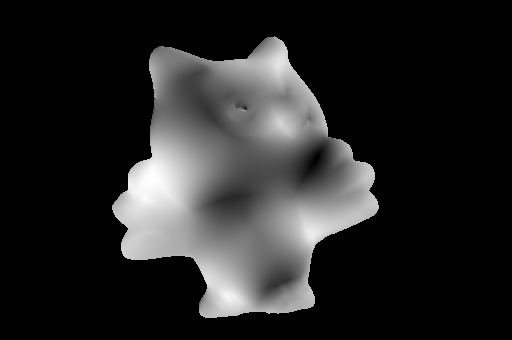
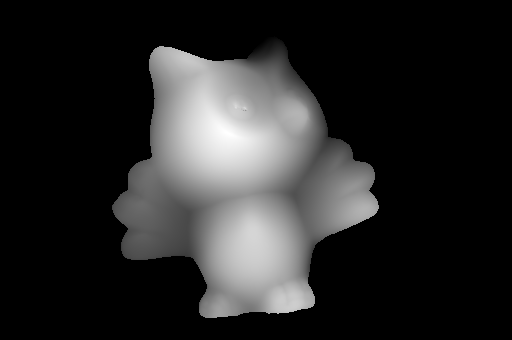
fixed pictures one last time, more or less done with written report

Changed region(s): [[0.2188, 0.0882, 0.75, 0.9412]]

diff --git a/assignement_1/Report_Template.tex b/assignement_1/Report_Template.tex
@@ -106,9 +106,9 @@ They are fairly close to the defaults given. The mean squared error over all nor
 
 For computing the grayscale albedo, I first reduced the color information to a single channel by computing the luminance $\ell$
 \begin{equation}
-	\ell = c_\text{red} \cdot 0.299 + 
-		c_\text{green} \cdot 0.587 + 
-		c_\text{blue} \cdot 0.114
+	\ell = c_\text{r} \cdot 0.299 + 
+		c_\text{g} \cdot 0.587 + 
+		c_\text{b} \cdot 0.114
 \end{equation}
 for each image. 
 
@@ -126,7 +126,7 @@ with
 	having the light direction of the corresponding image.
 	\item $\tilde{n}$ the normal direction (not unit size)
 \end{itemize}
-Further, we know that we can obtain the grayscale albedo $\rho$ by taking the length of $\tilde{n}$
+We know that we can obtain the grayscale albedo $\rho$ by taking the length of $\tilde{n}$
 \begin{equation}
 	n = \frac{\tilde{n}}{\rho}
 \end{equation}
@@ -231,38 +231,61 @@ on every pixel.
 
 \subsection{Surface Fitting}
 
-First, we need to express the surface as function of the normal. For this, we define the surface tangent
-vector at any point as
+We are looking for a way, to express the surface depth as function of the normal. The surface $S$ can be defined as with the depth as function of the other 
+coordinates, as in $S(X,Y)=(X,Y,Z(X,Y))^T$. Next, we define the surface tangent
+vectors in $X, Y$ direction at any point as partial derivatives
 \begin{equation}
 \begin{aligned}
 	\textbf{t}_X &= \frac{\partial\textbf{S}}{\partial X} = (1, 0, Z_X)^T \\
 	\textbf{t}_Y &= \frac{\partial\textbf{S}}{\partial Y} = (1, 0, Z_Y)^T
 \end{aligned}
+\label{eq:tangents}
 \end{equation}
 Since the normal can be expressed as normalized cross product of two tangential vectors, we know that
 \begin{equation}
-	n(X,Y) = \frac{(Z_X, Z_Y, -1)^T}{||(Z_X, Z_Y, -1)||}
+\begin{aligned}
+	n(X,Y) &= \frac{\textbf{t}_X \times \textbf{t}_Y}
+					{||\textbf{t}_X \times \textbf{t}_Y||} \\
+		   &= \frac{(Z_X, Z_Y, -1)^T}{||(Z_X, Z_Y, -1)||}
+\end{aligned}
 \end{equation}
-Further, the unknown depths can be approximated by
+Further, the derivatives of the unknown depths can be approximated by
 \begin{equation}
 \begin{aligned}
 	Z_X &\approx Z(x + 1, y) - Z(x,y) \\
-	Z_X &\approx Z(x, y + 1) - Z(x,y)	
+	Z_Y &\approx Z(x, y + 1) - Z(x,y)	
 \end{aligned}
 \label{eq:approx}
 \end{equation}
-Since we know, that the normal and the tangent vector are perpendicular to each other, we can
+These approximations can be used to express the tangent vectors 
+defined in eq. \ref{eq:tangents}. Since we know, that the normal and the tangent vector are perpendicular to each other, we can
 formulate the constraint
 \begin{equation}
 \begin{aligned}
-	\textbf{t}_X(x,y) \cdot n(X,Y) = 0 \\
-	\textbf{t}_Y(x,y) \cdot n(X,Y) = 0
+	\textbf{t}_X(x,y) \cdot n(x,y) = 0 \\
+	\textbf{t}_Y(x,y) \cdot n(x,y) = 0
+\end{aligned}
+\end{equation}
+This can be transformed to
+\begin{equation}
+\begin{aligned}
+	(Z(x+1,y) - Z(x,y)) \cdot n(x,y)_z &= -n(x,y)_x \\
+	(Z(x,y+1) - Z(x,y)) \cdot n(x,y)_z &= -n(x,y)_y 
 \end{aligned}
 \end{equation}
 Now we have many linear equations, fill a whole matrix with this stuff, then solve.
+This reduces the space of solutions to $Z(x,y) + c$ for any constant $c$. To reduce
+it to one unique solution, an additional constraint in the form of 
+\begin{equation}
+	Z(x_0, y_0) = 0
+\end{equation}
+must be defined for a single pixel $(x_0, y_0)$. I choose to set the pixel in the top left to $Z(0,0) = 0$. An alternative I explored 
+would be to set the depth of all pixels just outside the object boarder to $0$
 \subsubsection{Results}
-Sucessful, if ..
-
+A successful reconstruction of the surface is never guaranteed, but having more images with 
+more diverse light directions is one way to optimize the result. With more images,
+the impact of self occlusion and noise is reduced. The depth map of the scenes
+given for this assignment can be seen in figure \ref{fig:depth}.
 \begin{figure}[h!]
         \centering
         \begin{subfigure}{0.3\textwidth}
@@ -288,13 +311,25 @@ Sucessful, if ..
         \begin{subfigure}{0.3\textwidth}
                 \includegraphics[width=\textwidth]{report_fig/rock_d}
         \end{subfigure}
-        \caption{The depth. Brighter colors mean closer to the camera.
+        \caption{The depth. Brighter means closer to the camera.
         The background is set to black.}
         \label{fig:depth}
 \end{figure}
 
 \subsubsection{Failure cases}
-Surface not smooth (approximation from eq. \ref{eq:approx} not right then), many sharp
-edges
+\begin{itemize}
+\item Materials are assumed to reflect light as a lambertian material would. 
+If the material does have specular highlights, this method will fail. The eye of the owl
+scene does have a visible artifacts due to this.
 
+\item Self occlusion renders
+this method difficult, since this methods does not handle shadows. This is visible around
+the neck of the cat scene.
+
+\item Inter reflection is not handled. The scenes presented in this report
+do not contain such an example.
+
+\item The surface must be sufficiently smooth, or the approximation from eq. \ref{eq:approx} will not be correct.
+Objects with many sharp edges would not give a good result.
+\end{itemize}
 \end{document}

diff --git a/assignement_1/A1_Code/solntemplate.m b/assignement_1/A1_Code/solntemplate.m
@@ -7,8 +7,8 @@ nDir = 12;
 
 method = 1; % 1 for computed light directions from chrome sphere, 0 for default
 L = getLightDir(method,'../Images/chrome/', nDir, true);
-%scene_names = {'rock', 'buddha', 'owl', 'horse', 'cat', 'gray'};  
-scene_names = {'horse'};
+scene_names = {'rock', 'buddha', 'owl', 'horse', 'cat', 'gray'};  
+%scene_names = {'rock'};
 for img_name_str = scene_names;
     img_name = char(img_name_str);
     img_folder = ['../Images/', img_name, '/'];
@@ -67,7 +67,7 @@ for img_name_str = scene_names;
     depthmap_img(mask == 0) = 0;
     depthmap_img(mask == 1) = depthmap(mask == 1) + abs(min(min(depthmap(mask == 1))));
     depthmap_img(mask == 1) = depthmap_img(mask == 1)/max(max(depthmap_img(mask == 1)));
-    %depthmap_img(mask == 1) = 1 - depthmap_img(mask == 1); % invert to have dark colors far away
+    depthmap_img(mask == 1) = 1 - depthmap_img(mask == 1); % invert to have dark colors far away
     subplot(2,2,4), imshow(depthmap_img);
     imwrite(depthmap_img, [img_name, '_d.png']);
 end

diff --git a/assignement_1/A1_Code/getDepthFromNormals.m b/assignement_1/A1_Code/getDepthFromNormals.m
@@ -47,7 +47,8 @@ function [depth] = getDepthFromNormals(n, mask)
               s = [s, n(x,y,3), - n(x,y,3)];
               row_idx = row_idx + 1;
               
-              v = [v; -n(x,y,1); -n(x,y,2)];
+              % careful, iterating like this inverts x,y direction
+              v = [v; -n(x,y,2); -n(x,y,1)];
            end
       end
   end
